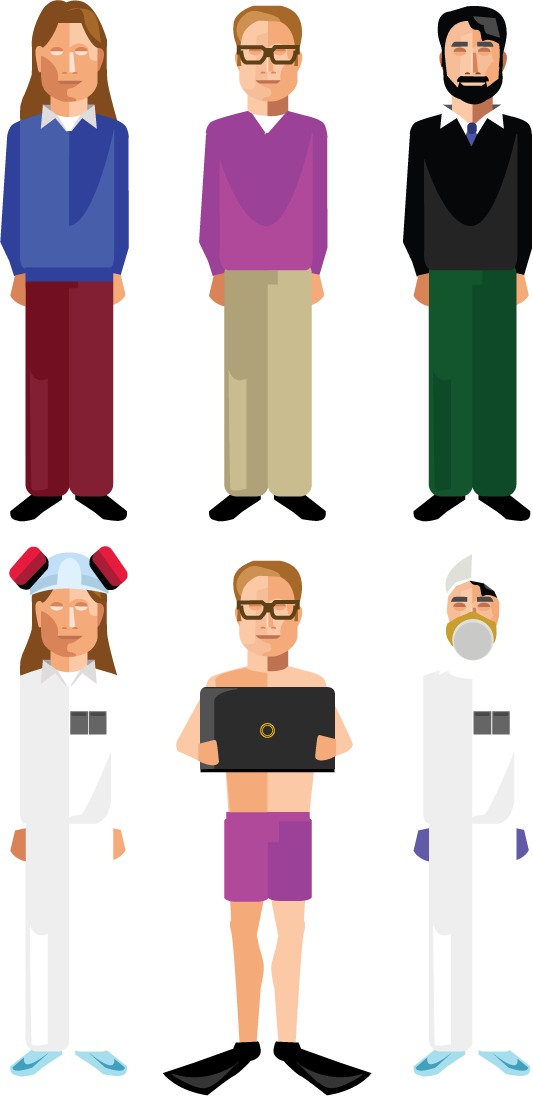
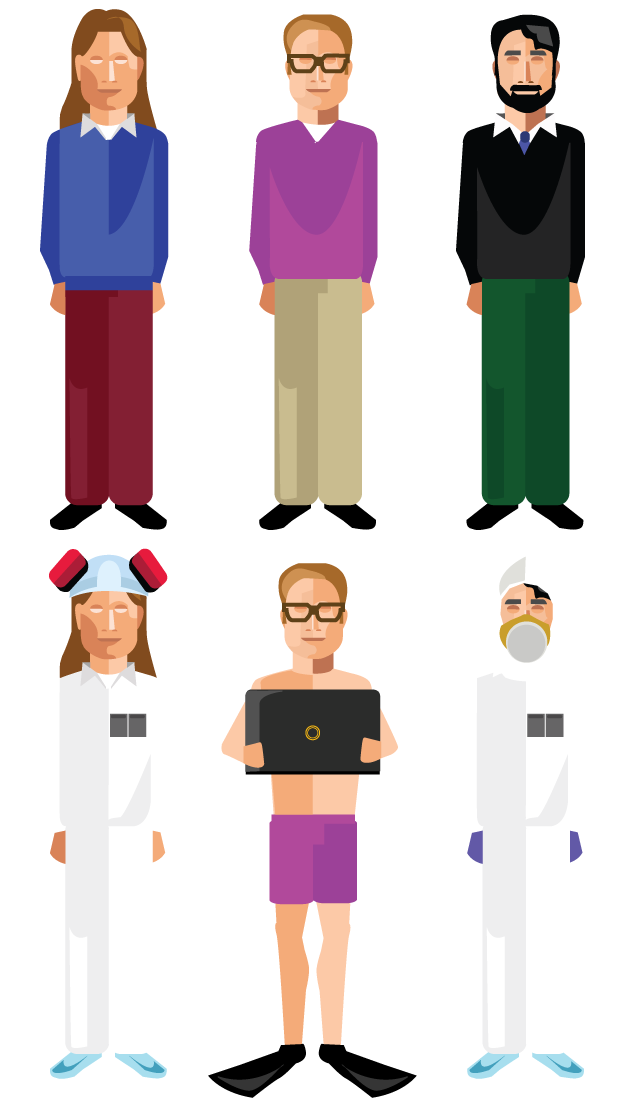
Improved iOS layout

diff --git a/css/main.css b/css/main.css
@@ -72,7 +72,7 @@ nav {
     left: 0;
     top: 0;
     width: 100%;
-    height: 2em;
+    min-height: 2em;
     z-index: 100;
 
     background-color: #153859;
@@ -153,38 +153,40 @@ main ul li {
     position: relative;
 }
 main ul a {
-    width: 209px;
-    height: 545px;
+    width: 132px;
+    height: 549px;
     display: block;
     margin: 1rem 0;
     overflow: hidden;
 
     background-image: url(../images/people.png);
     background-repeat: no-repeat;
-    background-size: 533px 1096px;
+    background-size: 625px 1098px;
 
     direction: ltr;
     text-indent: -9999px;
 }
 main ul li:nth-child(1) a {
-    width: 145px;
+    background-position: -38px top;
 }
 main ul li:nth-child(2) a {
-    background-position: -163px top;
-    margin-left: -0.9rem;
+    background-position: -211px top;
+    width: 213px;
+    margin-left: -0.8rem;
+    margin-right: -1.3rem;
 }
 main ul li:nth-child(3) a {
-    width: 155px;
-    background-position: -410px top;
+    width: 136px;
+    background-position: -453px top;
 }
 main ul li:nth-child(1) a:hover {
-    background-position: left -555px;
+    background-position: -38px -549px;
 }
 main ul li:nth-child(2) a:hover {
-    background-position: -163px -555px;
+    background-position: -206px -549px;
 }
 main ul li:nth-child(3) a:hover {
-    background-position: -410px -555px;
+    background-position: -453px -549px;
 }
 main .downbutton {
     display: block;
@@ -410,19 +412,26 @@ button[type="submit"]:active {
     main p { font-size: 1em; }
     main .text-center { width: 450px; }
     main ul li a {
-        background-size: 480px;
-        width: 188px;
-        height: 491px;
+        background-size: 563px; /* 625px * 0.9 */
+        width: 119px; /* 132px * 0.9 */
+        height: 494px; /* 549px * 0.9 */
     }
-    main ul li:nth-child(1) a { width: 131px; }
-    main ul li:nth-child(2) a { background-position: -145px top; }
+    main ul li:nth-child(1) a {
+        background-position: -34px top; /* -38px * 0.9 */
+    }
+    main ul li:nth-child(2) a {
+        width: 192px; /* 213px * 0.9 */
+        background-position: -190px top; /* -211px * 0.9 */
+        margin-left: -0.7rem; /* -0.8rem * 0.9 */
+        margin-right: -1.2rem; /* -1.3rem * 0.9 */
+    }
     main ul li:nth-child(3) a {
-        width: 140px;
-        background-position: -369px top;
+        width: 122px; /* 136px * 0.9 */
+        background-position: -408px top; /* -453px * 0.9 */
     }
-    main ul li:nth-child(1) a:hover { background-position: left -500px; }
-    main ul li:nth-child(2) a:hover { background-position: -145px -500px; }
-    main ul li:nth-child(3) a:hover { background-position: -369px -500px; }
+    main ul li:nth-child(1) a:hover { background-position: -34px -494px; }
+    main ul li:nth-child(2) a:hover { background-position: -186px -494px; }
+    main ul li:nth-child(3) a:hover { background-position: -408px -494px; }
 }
 
 @media screen and (max-width: 540px) and (min-width: 480px) {
@@ -430,41 +439,89 @@ button[type="submit"]:active {
     main p { font-size: 0.95em; }
     main .text-center { width: 410px; }
     main ul li a {
-        background-size: 426px;
-        width: 167px;
-        height: 436px;
+        background-size: 500px; /* 625px * 0.8 */
+        width: 106px; /* 132px * 0.8 */
+        height: 439px; /* 549px * 0.8 */
     }
-    main ul li:nth-child(1) a { width: 116px; }
-    main ul li:nth-child(2) a { background-position: -127px top; }
+    main ul li:nth-child(1) a {
+        background-position: -30px top; /* -38px * 0.8 */
+    }
+    main ul li:nth-child(2) a {
+        width: 170px; /* 213px * 0.9 */
+        background-position: -169px top; /* -211px * 0.8 */
+        margin-left: -0.6rem; /* -0.8rem * 0.8 */
+        margin-right: -1.0rem; /* -1.3rem * 0.8 */
+    }
     main ul li:nth-child(3) a {
-        width: 124px;
-        background-position: -328px top;
+        width: 109px; /* 136px * 0.8 */
+        background-position: -362px top; /* -453px * 0.8 */
     }
-    main ul li:nth-child(1) a:hover { background-position: left -443px; }
-    main ul li:nth-child(2) a:hover { background-position: -127px -443px; }
-    main ul li:nth-child(3) a:hover { background-position: -328px -443px; }
+    main ul li:nth-child(1) a:hover { background-position: -30px -439px; }
+    main ul li:nth-child(2) a:hover { background-position: -165px -439px; }
+    main ul li:nth-child(3) a:hover { background-position: -362px -439px; }
 }
 
-@media screen and (max-width: 480px) {
+@media screen and (max-width: 480px) and (min-width: 431px) {
     h3, h4, h5 { font-size: 1.4em; }
-    main p { font-size: 0.9em; }
+    main p { font-size: 0.95em; }
     main .text-center { width: 370px; }
+    main ul { margin-top: -0.5rem; }
     main ul li a {
-        background-size: 373px;
-        width: 146px;
-        height: 382px;
+        background-size: 438px; /* 625px * 0.7 */
+        width: 92px; /* 132px * 0.7 */
+        height: 384px; /* 549px * 0.7 */
     }
-    main ul li:nth-child(1) a { width: 102px; }
-    main ul li:nth-child(2) a { background-position: -110px top; }
+    main ul li:nth-child(1) a {
+        background-position: -27px top; /* -38px * 0.7 */
+    }
+    main ul li:nth-child(2) a {
+        width: 149px; /* 213px * 0.7 */
+        background-position: -148px top; /* -211px * 0.7 */
+        margin-left: -0.6rem; /* -0.8rem * 0.7 */
+        margin-right: -0.95rem; /* -1.3rem * 0.7 */
+    }
     main ul li:nth-child(3) a {
-        width: 109px;
-        background-position: -287px top;
+        width: 95px; /* 136px * 0.7 */
+        background-position: -317px top; /* -453px * 0.7 */
     }
-    main ul li:nth-child(1) a:hover { background-position: left -388px; }
-    main ul li:nth-child(2) a:hover { background-position: -110px -388px; }
-    main ul li:nth-child(3) a:hover { background-position: -287px -388px; }
+    main ul li:nth-child(1) a:hover { background-position: -27px -384px; }
+    main ul li:nth-child(2) a:hover { background-position: -144px -384px; }
+    main ul li:nth-child(3) a:hover { background-position: -317px -384px; }
 }
 
 @media screen and (max-width: 430px) {
+    h3, h4, h5 { font-size: 1.35em; }
+    main p { font-size: 0.95em; }
+    main .text-center { width: 370px; }
+    nav { font-size: 85%; }
     article { padding: 0 0 10px 0; }
+    main ul { margin-top: -0.5rem; }
+    main ul li a {
+        background-size: 375px; /* 625px * 0.6 */
+        width: 79px; /* 132px * 0.6 */
+        height: 329px; /* 549px * 0.6 */
+    }
+    main ul li:nth-child(1) a {
+        background-position: -23px top; /* -38px * 0.6 */
+    }
+    main ul li:nth-child(2) a {
+        width: 128px; /* 213px * 0.6 */
+        background-position: -127px top; /* -211px * 0.6 */
+        margin-left: -0.5rem; /* -0.8rem * 0.6 */
+        margin-right: -0.8rem; /* -1.3rem * 0.6 */
+    }
+    main ul li:nth-child(3) a {
+        width: 82px; /* 136px * 0.6 */
+        background-position: -272px top; /* -453px * 0.6 */
+    }
+    main ul li:nth-child(1) a:hover { background-position: -23px -329px; }
+    main ul li:nth-child(2) a:hover { background-position: -124px -329px; }
+    main ul li:nth-child(3) a:hover { background-position: -272px -329px; }
+}
+
+@media screen and (max-width: 320px) {
+    h3, h4 { font-size: 1.2em; }
+    nav { font-size: 75%; }
+    main .text-center { width: 312px; overflow: hidden; }
+    article { padding: 0 4px 10px 4px; }
 }

diff --git a/mideyelogin/login.htm b/mideyelogin/login.htm
@@ -2,7 +2,7 @@
 <html>
 <head runat="server">
     <meta charset="utf-8">
-    <meta name="viewport" content="width=device-width, initial-scale=1">
+    <meta name="viewport" content="width=device-width, initial-scale=1, user-scalable=no">
     <meta name="description" content="Hjälper dig nå världsklass.">
     <title>KSU Online</title>
 

diff --git a/mideyelogin/otp.htm b/mideyelogin/otp.htm
@@ -2,7 +2,7 @@
 <html>
 <head runat="server">
     <meta charset="utf-8">
-    <meta name="viewport" content="width=device-width, initial-scale=1">
+    <meta name="viewport" content="width=device-width, initial-scale=1, user-scalable=no">
     <meta name="description" content="Hjälper dig nå världsklass.">
     <title>KSU Online</title>
 

diff --git a/index.html b/index.html
@@ -2,7 +2,7 @@
 <html>
 <head>
     <meta charset="utf-8">
-    <meta name="viewport" content="width=device-width, initial-scale=1">
+    <meta name="viewport" content="width=device-width, initial-scale=1, user-scalable=no">
     <meta name="description" content="Hjälper dig nå världsklass.">
     <title>KSU Online</title>
 
